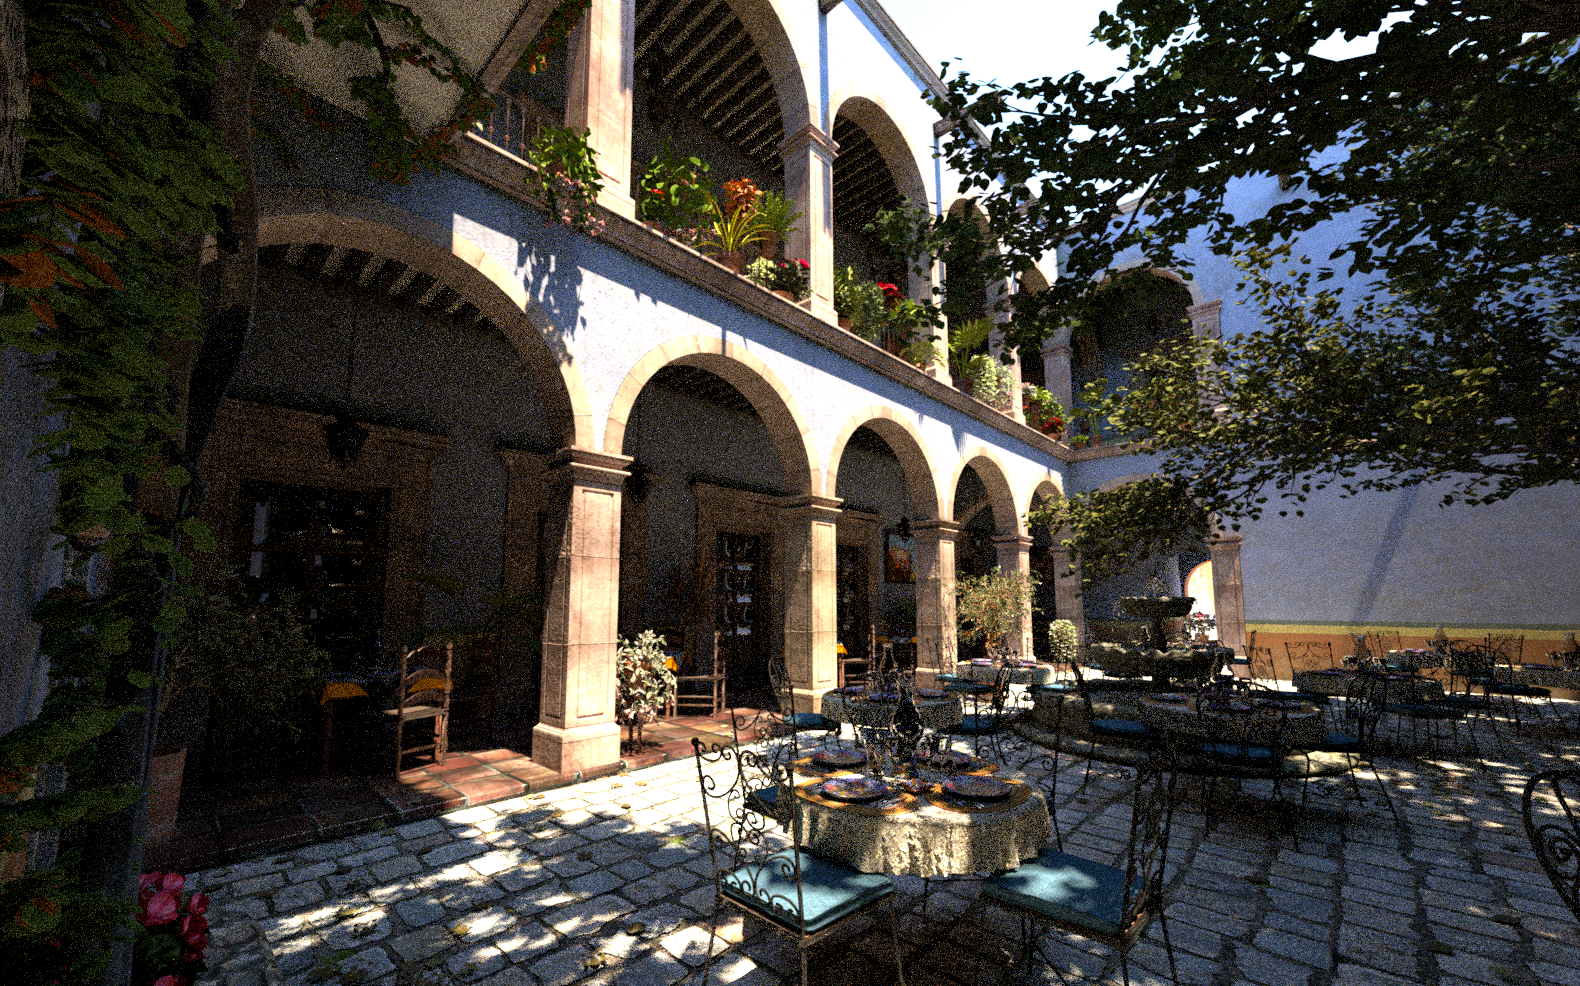
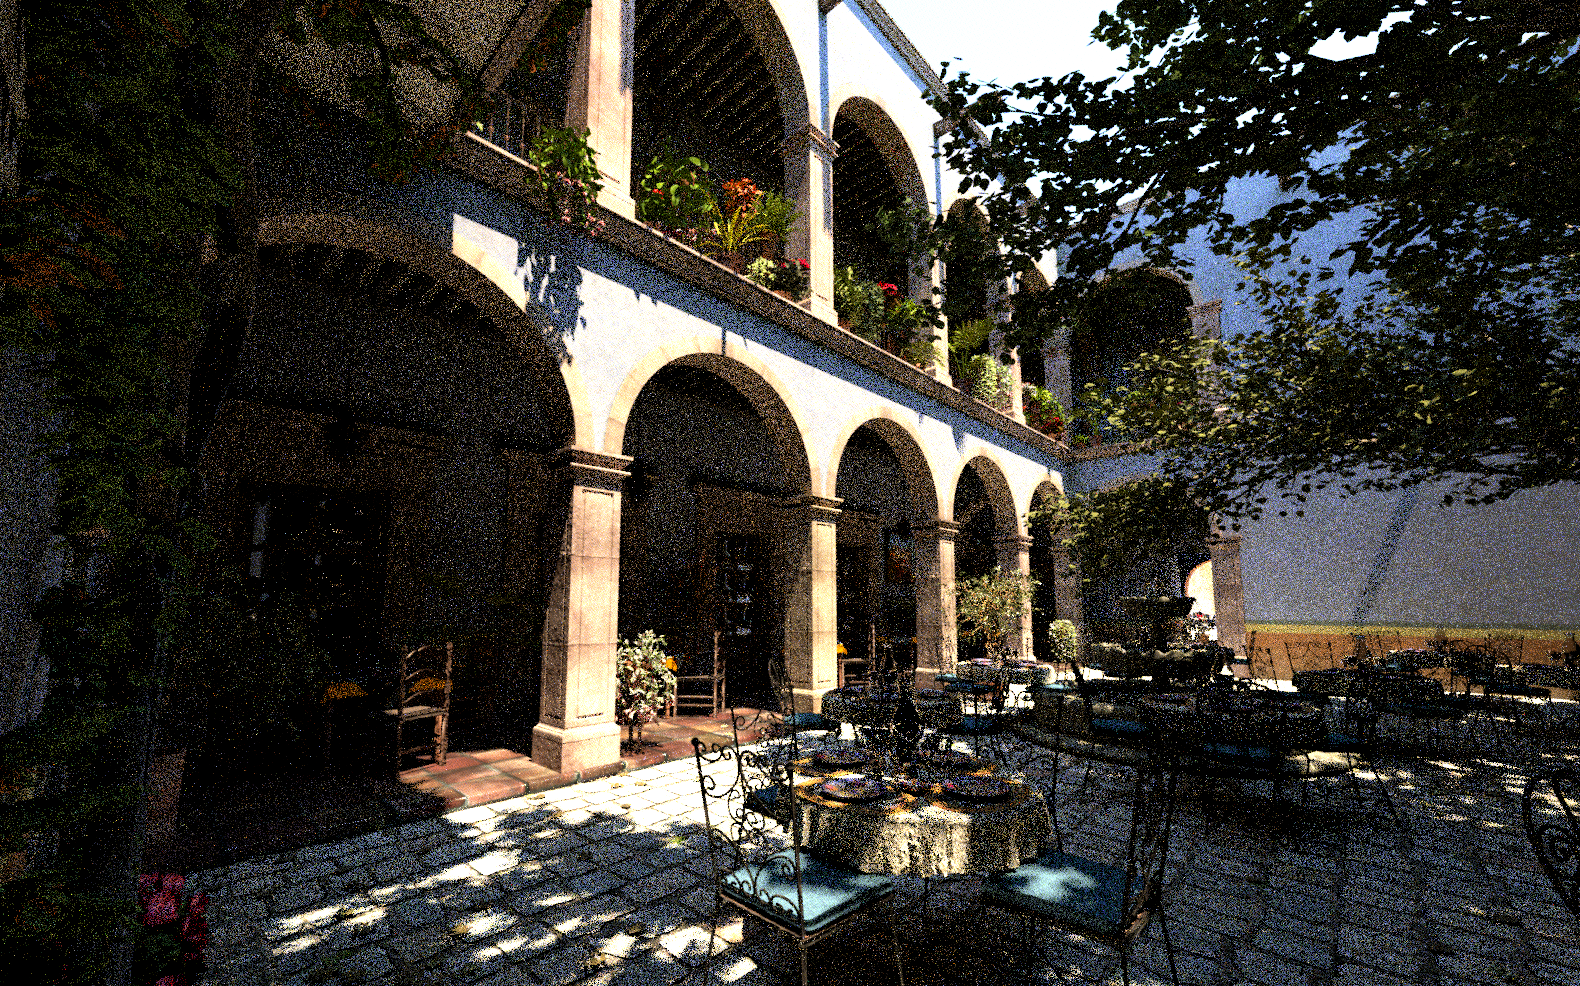
Cutting memory to mip 1

diff --git a/src/pbrt/util/mipmap.cpp b/src/pbrt/util/mipmap.cpp
@@ -13,14 +13,56 @@
 #include <pbrt/util/log.h>
 #include <pbrt/util/math.h>
 #include <pbrt/util/print.h>
+#include <pbrt/util/parallel.h>
 #include <pbrt/util/stats.h>
 
 #include <algorithm>
 #include <cmath>
+#include <vector>
 
 namespace pbrt {
 
 STAT_MEMORY_COUNTER("Memory/Image maps", imageMapBytes);
+
+// Box-filter downsample by 2 in each dimension. Keeps the source pixel format (U256 / Half /
+// Float) so stored mip pyramids and Memory/Image maps reflect a real memory win; converting
+// everything to float here makes footprint ~unchanged (4× smaller area, ~4× larger texels).
+static Image HalveImageBoxFilter(Image image, Allocator alloc) {
+    Point2i res = image.Resolution();
+    Point2i half(std::max(1, res.x / 2), std::max(1, res.y / 2));
+    if (half.x == res.x && half.y == res.y)
+        return image;
+
+    int nc = image.NChannels();
+    CHECK_GE(nc, 1);
+    std::vector<std::string> chNames = image.ChannelNames();
+    Image dst(image.Format(), half, pstd::MakeSpan(chNames), image.Encoding(), alloc);
+
+    ParallelFor2D(Bounds2i({0, 0}, half), [&](Bounds2i tile) {
+        WrapMode2D clamp(WrapMode::Clamp);
+        for (int y = tile.pMin.y; y < tile.pMax.y; ++y)
+            for (int x = tile.pMin.x; x < tile.pMax.x; ++x) {
+                ImageChannelValues sum(nc, Float(0));
+                int count = 0;
+                for (int dy = 0; dy < 2; ++dy)
+                    for (int dx = 0; dx < 2; ++dx) {
+                        int sx = 2 * x + dx;
+                        int sy = 2 * y + dy;
+                        if (sx < res.x && sy < res.y) {
+                            for (int c = 0; c < nc; ++c)
+                                sum[c] += image.GetChannel({sx, sy}, c, clamp);
+                            ++count;
+                        }
+                    }
+                CHECK_GT(count, 0);
+                Float inv = 1 / Float(count);
+                for (int c = 0; c < nc; ++c)
+                    sum[c] *= inv;
+                dst.SetChannels({x, y}, sum);
+            }
+    });
+    return dst;
+}
 
 ///////////////////////////////////////////////////////////////////////////
 // MIPMap Helper Declarations
@@ -195,6 +237,10 @@ MIPMap::MIPMap(Image image, const RGBColorSpace *colorSpace, WrapMode wrapMode,
                Allocator alloc, const MIPMapFilterOptions &options)
     : colorSpace(colorSpace), wrapMode(wrapMode), options(options) {
     CHECK(colorSpace);
+    // Half-res load is applied here (not only in CreateFromFile) so GPU paths and any other
+    // MIPMap construction see the same behavior and memory accounting.
+    if (Options && Options->halfResolutionImageTextures)
+        image = HalveImageBoxFilter(std::move(image), alloc);
     pyramid = Image::GeneratePyramid(std::move(image), wrapMode, alloc);
     if (Options->disableImageTextures) {
         Image top = pyramid.back();

diff --git a/src/pbrt/textures.h b/src/pbrt/textures.h
@@ -7,6 +7,7 @@
 
 #include <pbrt/pbrt.h>
 
+#include <pbrt/options.h>
 #include <pbrt/base/texture.h>
 #include <pbrt/interaction.h>
 #include <pbrt/paramdict.h>
@@ -505,12 +506,18 @@ class FBmTexture {
 struct TexInfo {
     // TexInfo Public Methods
     TexInfo(const std::string &f, MIPMapFilterOptions filterOptions, WrapMode wm,
-            ColorEncoding encoding)
-        : filename(f), filterOptions(filterOptions), wrapMode(wm), encoding(encoding) {}
+            ColorEncoding encoding, bool halfResolutionImageTextures)
+        : filename(f),
+          filterOptions(filterOptions),
+          wrapMode(wm),
+          encoding(encoding),
+          halfResolutionImageTextures(halfResolutionImageTextures) {}
 
     bool operator<(const TexInfo &t) const {
-        return std::tie(filename, filterOptions, encoding, wrapMode) <
-               std::tie(t.filename, t.filterOptions, t.encoding, t.wrapMode);
+        return std::tie(filename, filterOptions, encoding, wrapMode,
+                        halfResolutionImageTextures) <
+               std::tie(t.filename, t.filterOptions, t.encoding, t.wrapMode,
+                        t.halfResolutionImageTextures);
     }
 
     std::string ToString() const;
@@ -519,6 +526,7 @@ struct TexInfo {
     MIPMapFilterOptions filterOptions;
     WrapMode wrapMode;
     ColorEncoding encoding;
+    bool halfResolutionImageTextures;
 };
 
 // ImageTextureBase Definition
@@ -527,10 +535,12 @@ class ImageTextureBase {
     // ImageTextureBase Public Methods
     ImageTextureBase(TextureMapping2D mapping, std::string filename,
                      MIPMapFilterOptions filterOptions, WrapMode wrapMode, Float scale,
-                     bool invert, ColorEncoding encoding, Allocator alloc)
+                     bool invert, ColorEncoding encoding, Allocator alloc,
+                     bool halfResolutionImageTextures)
         : mapping(mapping), filename(filename), scale(scale), invert(invert) {
         // Get _MIPMap_ from texture cache if present
-        TexInfo texInfo(filename, filterOptions, wrapMode, encoding);
+        TexInfo texInfo(filename, filterOptions, wrapMode, encoding,
+                        halfResolutionImageTextures);
         std::unique_lock<std::mutex> lock(textureCacheMutex);
         if (auto iter = textureCache.find(texInfo); iter != textureCache.end()) {
             mipmap = iter->second;
@@ -539,8 +549,7 @@ class ImageTextureBase {
         lock.unlock();
 
         // Create _MIPMap_ for _filename_ and add to texture cache
-        mipmap =
-            MIPMap::CreateFromFile(filename, filterOptions, wrapMode, encoding, alloc);
+        mipmap = MIPMap::CreateFromFile(filename, filterOptions, wrapMode, encoding, alloc);
         lock.lock();
         // This is actually ok, but if it hits, it means we've wastefully
         // loaded this texture. (Note that in that case, should just return
@@ -573,8 +582,8 @@ class FloatImageTexture : public ImageTextureBase {
     FloatImageTexture(TextureMapping2D m, const std::string &filename,
                       MIPMapFilterOptions filterOptions, WrapMode wm, Float scale,
                       bool invert, ColorEncoding encoding, Allocator alloc)
-        : ImageTextureBase(m, filename, filterOptions, wm, scale, invert, encoding,
-                           alloc) {}
+        : ImageTextureBase(m, filename, filterOptions, wm, scale, invert, encoding, alloc,
+                           Options && Options->halfResolutionImageTextures) {}
     PBRT_CPU_GPU
     Float Evaluate(TextureEvalContext ctx) const {
 #ifdef PBRT_IS_GPU_CODE
@@ -606,7 +615,7 @@ class SpectrumImageTexture : public ImageTextureBase {
                          Float scale, bool invert, ColorEncoding encoding,
                          SpectrumType spectrumType, Allocator alloc)
         : ImageTextureBase(mapping, filename, filterOptions, wrapMode, scale, invert,
-                           encoding, alloc),
+                           encoding, alloc, Options && Options->halfResolutionImageTextures),
           spectrumType(spectrumType) {}
 
     PBRT_CPU_GPU

diff --git a/src/pbrt/textures.cpp b/src/pbrt/textures.cpp
@@ -400,8 +400,9 @@ std::string FloatImageTexture::ToString() const {
 
 std::string TexInfo::ToString() const {
     return StringPrintf(
-        "[ TexInfo filename: %s filterOptions: %s wrapMode: %s encoding: %s ]", filename,
-        filterOptions, wrapMode, encoding);
+        "[ TexInfo filename: %s filterOptions: %s wrapMode: %s encoding: %s "
+        "halfResolutionImageTextures: %s ]",
+        filename, filterOptions, wrapMode, encoding, halfResolutionImageTextures);
 }
 
 std::mutex ImageTextureBase::textureCacheMutex;
@@ -1131,17 +1132,17 @@ GPUSpectrumImageTexture *GPUSpectrumImageTexture::Create(
             textureCacheMutex.unlock();
 
             {
-                ImageAndMetadata immeta = Image::Read(filename);
+                ImageAndMetadata immeta = Image::Read(filename, alloc, encoding);
                 Image &image = immeta.image;
 
-                readMode = image.Format() == PixelFormat::U256
-                               ? cudaReadModeNormalizedFloat
-                               : cudaReadModeElementType;
                 colorSpace = immeta.metadata.GetColorSpace();
 
                 ImageChannelDesc rgbDesc = image.GetChannelDesc({"R", "G", "B"});
                 if (rgbDesc) {
                     image = image.SelectChannels(rgbDesc);
+                    readMode = image.Format() == PixelFormat::U256
+                                   ? cudaReadModeNormalizedFloat
+                                   : cudaReadModeElementType;
 
                     MIPMap mipmap(image, colorSpace, WrapMode::Clamp /* TODO */,
                                   Allocator(), MIPMapFilterOptions());
@@ -1269,6 +1270,9 @@ GPUSpectrumImageTexture *GPUSpectrumImageTexture::Create(
                         mipArray, readMode, nMIPMapLevels, colorSpace};
                     textureCacheMutex.unlock();
                 } else if (image.NChannels() == 1) {
+                    readMode = image.Format() == PixelFormat::U256
+                                   ? cudaReadModeNormalizedFloat
+                                   : cudaReadModeElementType;
                     mipArray = createSingleChannelTextureArray(image, colorSpace,
                                                                &nMIPMapLevels);
 
@@ -1357,7 +1361,7 @@ GPUFloatImageTexture *GPUFloatImageTexture::Create(
     } else {
         textureCacheMutex.unlock();
 
-        ImageAndMetadata immeta = Image::Read(filename);
+        ImageAndMetadata immeta = Image::Read(filename, alloc, encoding);
         Image &image = immeta.image;
         const RGBColorSpace *colorSpace = immeta.metadata.GetColorSpace();
 

diff --git a/src/pbrt/cmd/pbrt.cpp b/src/pbrt/cmd/pbrt.cpp
@@ -40,6 +40,8 @@ Rendering options:
                                 faster debugging. (<values> are Integrator-specific
                                 and come from error message text.)
   --disable-image-textures      Always return the average value of image textures.
+  --fullres-imagetextures       Load image textures at full resolution (default is half
+                                resolution for lower memory and faster filtering).
   --disable-pixel-jitter        Always sample pixels at their centers.
   --disable-texture-filtering   Point-sample all textures.
   --disable-wavelength-jitter   Always sample the same %d wavelengths of light.
@@ -108,10 +110,14 @@ int main(int argc, char *argv[]) {
 
     // Declare variables for parsed command line
     PBRTOptions options;
+    // Ensure half-res image loads are enabled unless --fullres-imagetextures is passed (some
+    // toolchains have been observed not to apply base-class default member initializers as expected).
+    options.halfResolutionImageTextures = true;
     std::vector<std::string> filenames;
     std::string logLevel = "error";
     std::string renderCoordSys = "cameraworld";
     bool format = false, toPly = false;
+    bool fullResolutionImageTextures = false;
 
     // Process command-line arguments
     for (auto iter = args.begin(); iter != args.end(); ++iter) {
@@ -164,6 +170,8 @@ int main(int argc, char *argv[]) {
             ParseArg(&iter, args.end(), "debugstart", &options.debugStart, onError) ||
             ParseArg(&iter, args.end(), "disable-image-textures",
                      &options.disableImageTextures, onError) ||
+            ParseArg(&iter, args.end(), "fullres-imagetextures",
+                     &fullResolutionImageTextures, onError) ||
             ParseArg(&iter, args.end(), "disable-pixel-jitter",
                      &options.disablePixelJitter, onError) ||
             ParseArg(&iter, args.end(), "disable-texture-filtering",
@@ -266,6 +274,9 @@ int main(int argc, char *argv[]) {
     if (options.interactive && options.quickRender) {
         ErrorExit("The --quick option is not supported in interactive mode");
     }
+
+    if (fullResolutionImageTextures)
+        options.halfResolutionImageTextures = false;
 
     options.logLevel = LogLevelFromString(logLevel);
 

diff --git a/src/pbrt/options.cpp b/src/pbrt/options.cpp
@@ -36,6 +36,7 @@ std::string PBRTOptions::ToString() const {
     return StringPrintf(
         "[ PBRTOptions seed: %s quiet: %s disablePixelJitter: %s "
         "disableWavelengthJitter: %s disableTextureFiltering: %s disableImageTextures: %s "
+        "halfResolutionImageTextures: %s "
         "forceDiffuse: %s useGPU: %s wavefront: %s interactive: %s fullscreen %s "
         "renderingSpace: %s nThreads: %s logLevel: %s logFile: %s logUtilization: %s "
         "writePartialImages: %s recordPixelStatistics: %s "
@@ -44,7 +45,8 @@ std::string PBRTOptions::ToString() const {
         "displayServer: %s cropWindow: %s pixelBounds: %s pixelMaterial: %s "
         "displacementEdgeScale: %f ]",
         seed, quiet, disablePixelJitter, disableWavelengthJitter, disableTextureFiltering,
-        disableImageTextures, forceDiffuse, useGPU, wavefront, interactive, fullscreen,
+        disableImageTextures, halfResolutionImageTextures, forceDiffuse, useGPU, wavefront,
+        interactive, fullscreen,
         renderingSpace, nThreads, logLevel, logFile, logUtilization, writePartialImages,
         recordPixelStatistics, printStatistics, pixelSamples, gpuDevice, quickRender, upgrade,
         imageFile, mseReferenceImage, mseReferenceOutput, debugStart, displayServer, cropWindow,

diff --git a/src/pbrt/options.h b/src/pbrt/options.h
@@ -25,6 +25,9 @@ struct BasicPBRTOptions {
     bool disablePixelJitter = false, disableWavelengthJitter = false;
     bool disableTextureFiltering = false;
     bool disableImageTextures = false;
+    // When true (default), image textures are downsampled to half resolution at load (CPU and GPU).
+    // Use --fullres-imagetextures on the command line to load at native resolution for comparisons.
+    bool halfResolutionImageTextures = true;
     bool forceDiffuse = false;
     bool useGPU = false;
     bool wavefront = false;